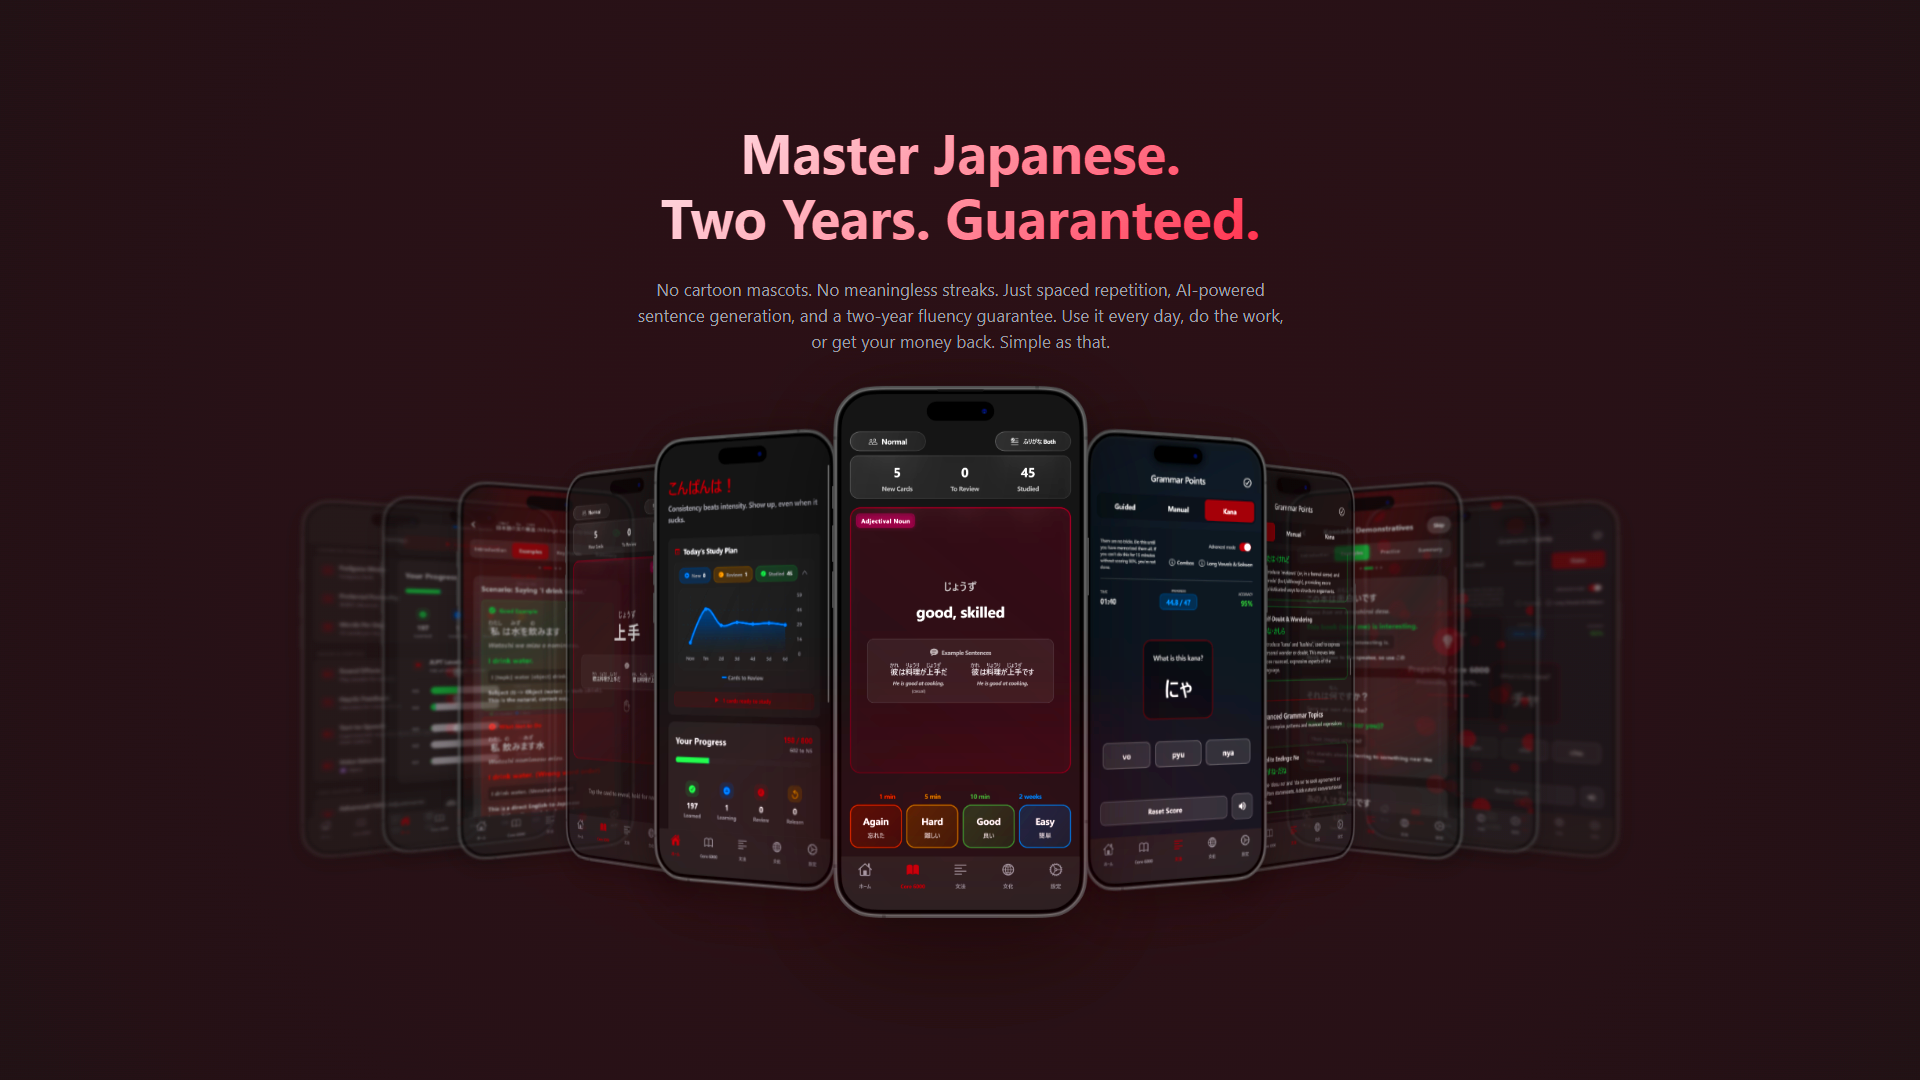
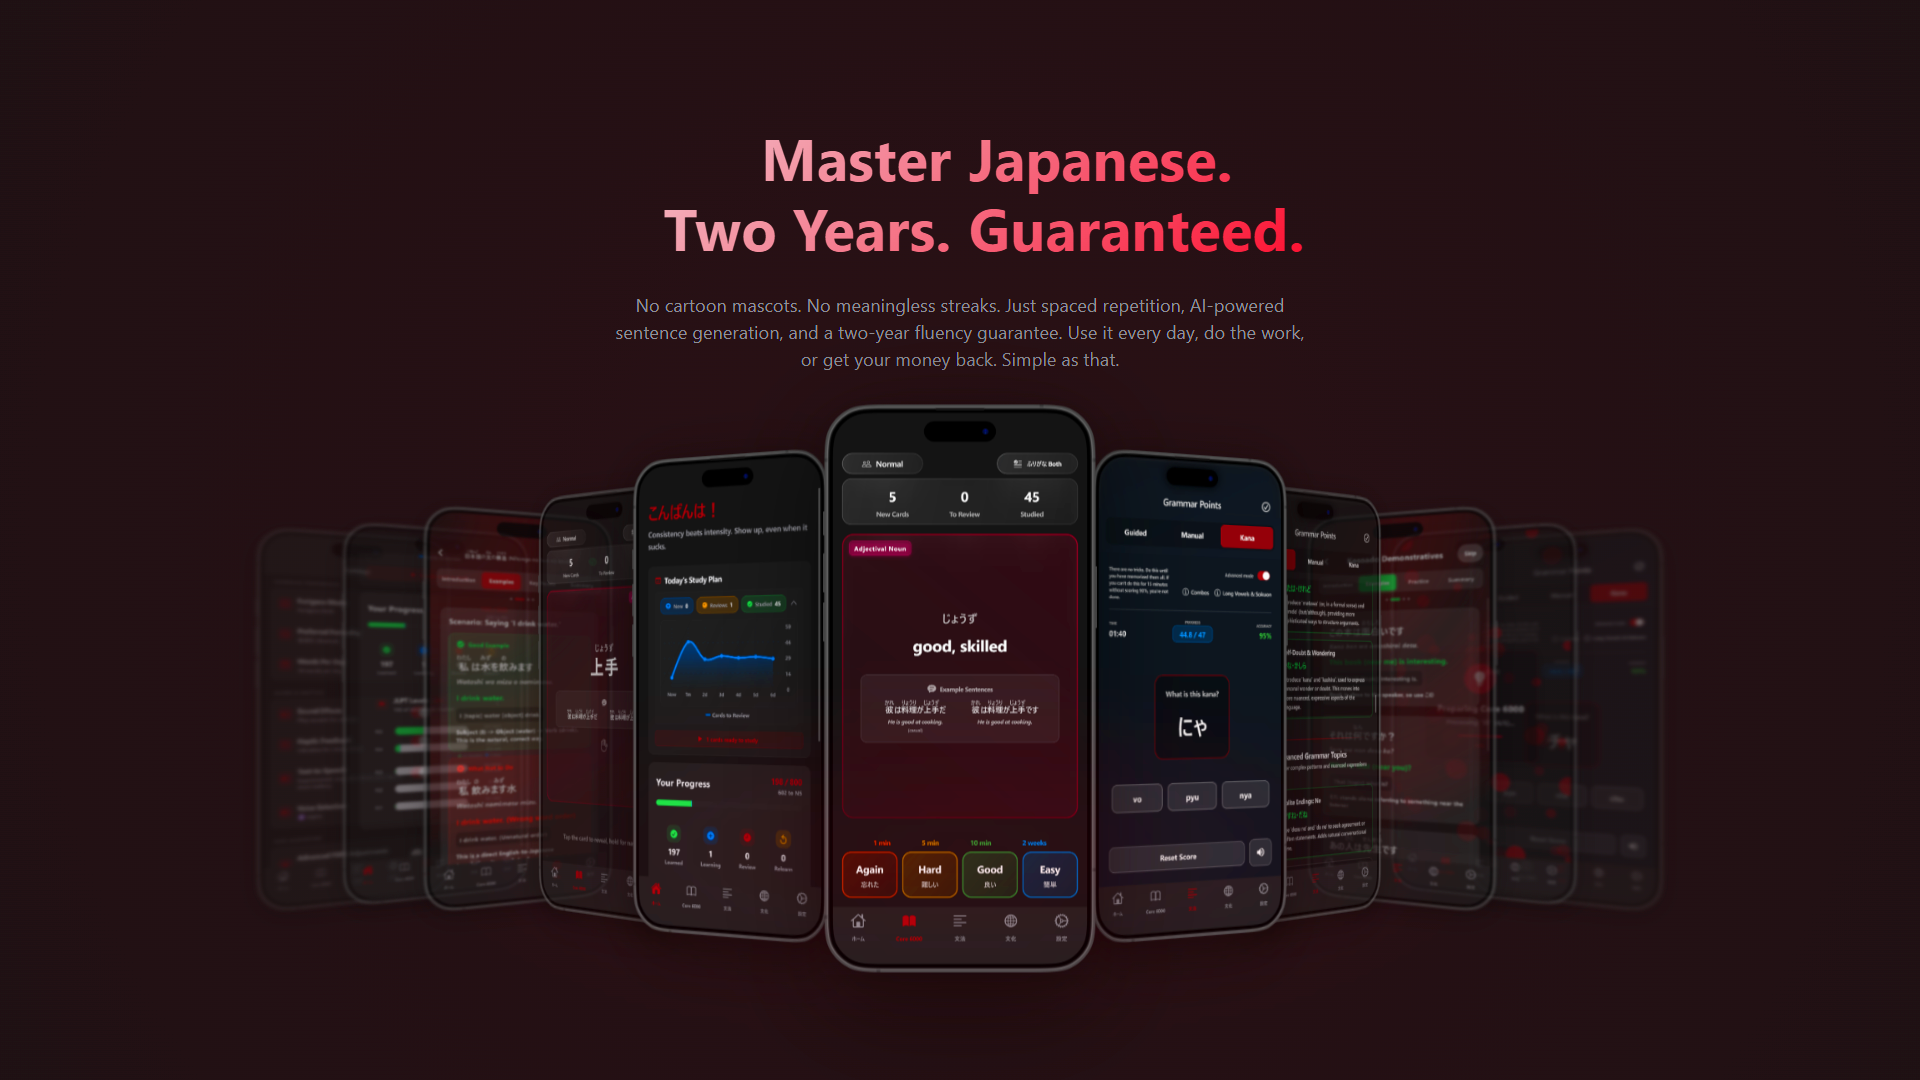
Optical centering instead of mathematical centering

Changed region(s): [[0.1562, 0.1222, 0.875, 0.8861], [0.4375, 0.8861, 0.5625, 0.9167], [0.75, 0.7944, 0.7812, 0.825]]

diff --git a/src/components/Hero/Hero.tsx b/src/components/Hero/Hero.tsx
@@ -40,6 +40,7 @@ const GradientBackground = styled(motion.div)`
 const HeroContent = styled(motion.div)`
   max-width: 1200px;
   width: 100%;
+  margin: 0 auto; /* Ensure horizontal centering */
   text-align: center;
   z-index: 1;
 `;
@@ -59,6 +60,33 @@ const Title = styled(motion.h1)`
   background-size: 200% auto;
   margin-bottom: ${({ theme }) => theme.spacing.xl};
   line-height: 1.2;
+
+  /* Container for optically-centered split text */
+  width: 100%; /* Ensure title spans full container width */
+  display: flex;
+  flex-direction: column;
+  align-items: stretch; /* Make children take full width */
+`;
+
+// Optical centering container for each line - creates a hard 50/50 split at centerline
+const OpticalLine = styled.span`
+  display: flex;
+  width: 100%;
+  align-items: center;
+`;
+
+// Right-aligned half of split text (appears before the centerline) - takes exactly 50% width
+const RightAlignedHalf = styled.span`
+  flex: 1;
+  text-align: right;
+  padding-right: 0.15em; /* Reduced spacing for tighter optical centering */
+`;
+
+// Left-aligned half of split text (appears after the centerline) - takes exactly 50% width
+const LeftAlignedHalf = styled.span`
+  flex: 1;
+  text-align: left;
+  padding-left: 0.15em; /* Reduced spacing for tighter optical centering */
 `;
 
 const Subtitle = styled(motion.p)`
@@ -340,9 +368,14 @@ const Hero: React.FC = React.memo(() => {
         <Title
           variants={fadeUpVariant}
         >
-          Master Japanese.
-          <br />
-          Two Years. Guaranteed.
+          <OpticalLine>
+            <RightAlignedHalf>Master</RightAlignedHalf>
+            <LeftAlignedHalf>Japanese.</LeftAlignedHalf>
+          </OpticalLine>
+          <OpticalLine>
+            <RightAlignedHalf>Two Years.</RightAlignedHalf>
+            <LeftAlignedHalf>Guaranteed.</LeftAlignedHalf>
+          </OpticalLine>
         </Title>
 
         <Subtitle variants={fadeUpVariant}>
